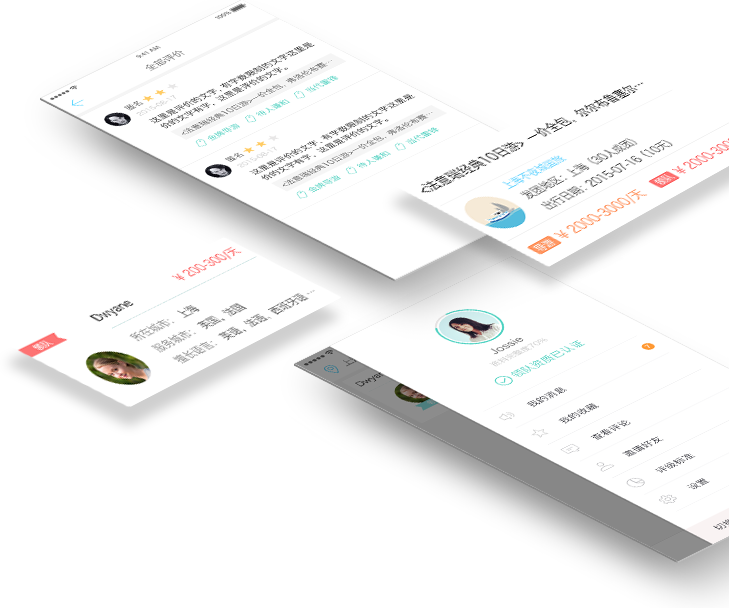
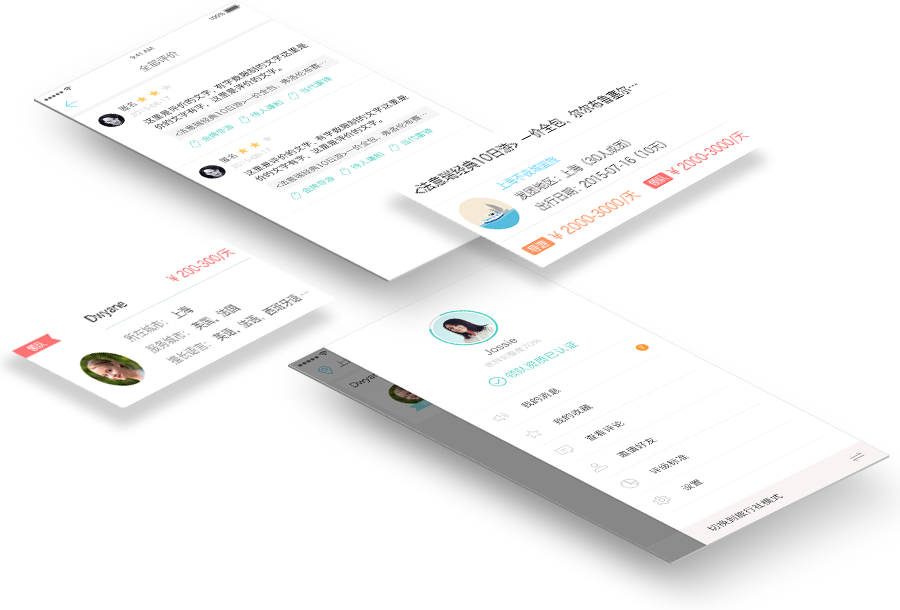
做导游平台后台 APP 功能、帮助及评价说明页面

diff --git a/static/special/source/appTourGuideRate.html b/static/special/source/appTourGuideRate.html
@@ -1,0 +1,79 @@
+<!DOCTYPE html>
+<html lang="zh-cn">
+  <head>
+    <meta charset="utf-8">
+    <meta http-equiv="X-UA-Compatible" content="IE=edge">
+    <meta name="viewport" content="width=device-width, initial-scale=1.0, maximum-scale=1.0, user-scalable=no">
+    <meta name="format-detection" content="telephone=no" />
+    <link rel="stylesheet" type="text/css" href="../css/appSpecial.css">
+    <script src="../../js/jquery.min.js"></script>
+
+    <title>评级标准</title>
+      
+      <!--[if IE]>
+      <script src="../../js/html5.js"></script>
+      <![endif]-->
+      
+  </head>
+  <body style="background-color: #f0f0f0;">
+        <div class="wrapperTourGuide">
+            <div class="bigTitle">
+                <span class="commonIcon rateIcon"></span> 评级说明
+            </div>
+            <div class="contentDetail">
+                <div class="contentTitle">1、评级目的</div>
+                <div class="contentFonts">为了高质量服务于广大用户，鼓励用户积极正确使用该交流平台，建设一个健康有效的交流环境，特此设置评级系统，奖励按照规定使用平台的行为，限制消极使用该平台的行为，体现在等级越高越容易被搜索到和享受更多特权</div>
+            </div>
+            <div class="contentDetail">
+                <div class="contentTitle">2、评级细则</div>
+                <div class="smallTitle">提高等级行为：</div>
+                <ul class="rateList">
+                    <li><span class="commonIcon listIcon"></span>资料完善</li>
+                    <li><span class="commonIcon listIcon"></span>发布档期或团期的行为</li>
+                    <li><span class="commonIcon listIcon"></span>及时反馈报名/邀约用户的行为</li>
+                    <li><span class="commonIcon listIcon"></span>及时点评的行为</li>
+                </ul>
+                <div class="smallTitle">降低等级行为：</div>
+                <ul class="rateList">
+                    <li><span class="commonIcon listIcon"></span>规定时间内没有及时反馈对方</li>
+                    <li><span class="commonIcon listIcon"></span>规定时间内没有及时点评对方</li>
+                    <li><span class="commonIcon listIcon"></span>恶意点评对方的行为</li>
+                    <li><span class="commonIcon listIcon"></span>发布虚假信息</li>
+                </ul>
+            </div>
+            <div class="contentDetail">
+                <div class="contentTitle">3、等级特权</div>
+                <ul class="rateList">
+                    <li><span class="commonIcon listIcon"></span>首页展示</li>
+                    <li><span class="commonIcon listIcon"></span>排名靠前</li>
+                    <li><span class="commonIcon listIcon"></span>精准推送</li>
+                    <li><span class="commonIcon listIcon"></span>使用软件全功能等</li>
+                </ul>
+            </div>
+            <div class="contentDetail">
+                <div class="contentTitle">4、其他说明</div>
+                <div class="contentFonts">本规则最终解释权归真旅网软件开发技术（上海）有限公司所有，如有疑问可联系客服 QQ：123456789</div>
+            </div>
+        </div>
+
+        <script type="text/javascript">
+            var root = document.getElementsByTagName("html")[0],
+                    w = window.innerWidth >= 750 ? 750 : window.innerWidth,
+                    h = window.innerHeight >= 1334 ? 1334 : window.innerHeight,
+                    base_ratio = 750 / 1334,
+                    actual_ratio = window.innerWidth / window.innerHeight;
+
+            if (actual_ratio >= base_ratio) {  // 宽屏，按高度算
+
+                root.style.fontSize = (h / 667) * 20 + "px";
+
+            } else if (actual_ratio < base_ratio) {  //  长屏，按宽度算
+
+                root.style.fontSize = (w / 375) * 20 + "px";
+            }
+
+            root.style.height = window.innerHeight + "px";
+        </script>
+  
+  </body>
+</html>

diff --git a/static/special/source/appTourGuideHelp.html b/static/special/source/appTourGuideHelp.html
@@ -1,0 +1,65 @@
+<!DOCTYPE html>
+<html lang="zh-cn">
+  <head>
+    <meta charset="utf-8">
+    <meta http-equiv="X-UA-Compatible" content="IE=edge">
+    <meta name="viewport" content="width=device-width, initial-scale=1.0, maximum-scale=1.0, user-scalable=no">
+    <meta name="format-detection" content="telephone=no" />
+    <link rel="stylesheet" type="text/css" href="../css/appSpecial.css">
+    <script src="../../js/jquery.min.js"></script>
+
+    <title>帮助</title>
+      
+      <!--[if IE]>
+      <script src="../../js/html5.js"></script>
+      <![endif]-->
+      
+  </head>
+  <body style="background-color: #f0f0f0;">
+        <div class="wrapperTourGuide">
+            <div class="bigTitle">
+                <span class="commonIcon problemIcon"></span> 常见问题
+            </div>
+            <div class="contentDetail">
+                <div class="contentTitle">Q: &nbsp; 团团赢软件是做什么的？</div>
+                <div class="contentFonts">团团赢是真旅网（www.travelzen.com）集团推出的面向导游同胞和旅行之间的一个交流平台，主要是导游找旅行团带团，旅行社找导游去合作。</div>
+            </div>
+            <div class="contentDetail">
+                <div class="contentTitle">Q: &nbsp; 商业合作联系方式</div>
+                <div class="contentFonts">QQ：123456789</div>
+            </div>
+            <div class="contentDetail">
+                <div class="contentTitle">Q: &nbsp; 为什么身份认证需要填写那么多资料？</div>
+                <div class="contentFonts">平台为了安全高效的服务于导游和旅行社，因此采用实名认证和各种证件认证的方式，来维护这个平台的内容健康良好的发展。</div>
+            </div>
+            <div class="contentDetail">
+                <div class="contentTitle">Q: &nbsp; 如何修改密码和忘记密码后该怎么办？</div>
+                <div class="contentFonts">在登录处点击忘记密码，输入手机号、发送验证码、重新输入密码即可。</div>
+            </div>
+            <div class="contentDetail">
+                <div class="contentTitle">Q: &nbsp; 该软件收费吗？</div>
+                <div class="contentFonts">本软件为公益性平台，是向导游群体完全免费开放的平台，不收取任何费用。</div>
+            </div>
+        </div>
+      
+      <script type="text/javascript">
+          var root = document.getElementsByTagName("html")[0],
+                  w = window.innerWidth >= 750 ? 750 : window.innerWidth,
+                  h = window.innerHeight >= 1334 ? 1334 : window.innerHeight,
+                  base_ratio = 750 / 1334,
+                  actual_ratio = window.innerWidth / window.innerHeight;
+
+          if (actual_ratio >= base_ratio) {  // 宽屏，按高度算
+
+              root.style.fontSize = (h / 667) * 20 + "px";
+
+          } else if (actual_ratio < base_ratio) {  //  长屏，按宽度算
+
+              root.style.fontSize = (w / 375) * 20 + "px";
+          }
+
+          root.style.height = window.innerHeight + "px";
+      </script>
+  
+  </body>
+</html>

diff --git a/static/special/css/appSpecial.css b/static/special/css/appSpecial.css
@@ -237,7 +237,8 @@ table{border-collapse:collapse;border-spacing:0;}
 
 
 /*  导游平台后台APP start  */
-.wrapperTourGuide{    
+.wrapperTourGuide{
+    font-size: 0.85rem;
     color: #666666;
 }
 .functionModel{
@@ -252,18 +253,76 @@ table{border-collapse:collapse;border-spacing:0;}
     margin: 1.2rem 0;
 }
 .functionList li{
-    font-size: 0.75rem;
-    margin: 0.3rem 0;
-    line-height: 0.8rem;
+    line-height: 1.4rem;
     list-style-type: none;
 }
 .functionImg{
+    text-align: center;
     margin-left: 0.5rem;
 }
 .functionImg img{
-    width: 18.225rem;
-    height: 15.2rem;
+    height: 15.25rem;
+}
+.pStyle{
+    margin-top: 1rem;
+}
+.pStyle p{
+    padding-bottom: 1.5rem;
+    line-height: 1.4rem;
 }
 
+.bigTitle{
+    font-size: 1rem;
+    padding: 1rem 1rem 0.375rem;
+    margin-bottom: 1.2rem;
+    border-bottom: 1px solid #33ccff;
+}
+.commonIcon.problemIcon{
+    width: 1.1rem;
+    height: 1.1rem;
+    background: url("../images/mobile/appIcon01.png") no-repeat;
+}
+.commonIcon.rateIcon{
+    width: 1.1rem;
+    height: 0.875rem;
+    background: url("../images/mobile/appIcon02.png") no-repeat;
+}
+.wrapperTourGuide .commonIcon{
+    display: inline-block;
+    vertical-align: middle;
+    margin-right: 0.25rem;
+    background-size: cover;
+}
+.commonIcon.listIcon{
+    width: 0.25rem;
+    height: 0.25rem;
+    background: url("../images/mobile/appIcon03.png") no-repeat;
+    margin-right: 0.5rem;
+}
+.contentDetail{
+    margin: 0 1rem;
+}
+.contentDetail .contentTitle{
+    font-size: 0.9rem;
+    margin: 0.75rem 0 0.625rem;
+    padding-bottom: 0.75rem;
+    border-bottom: 1px solid #cccccc;
+    color: #333333;
+}
+.contentFonts{
+    line-height: 1.4rem;
+    padding-bottom: 1rem;
+}
+.smallTitle{
+    margin: 0.5rem 0;
+}
+.rateList{
+    margin-bottom: 1.5rem;
+}
+.rateList li{
+    list-style-type: none;
+    line-height: 1.1rem;
+    margin-bottom: 0.25rem;
+}
 
 /*  导游平台后台APP end  */

diff --git a/static/special/source/appTourGuideFunction.html b/static/special/source/appTourGuideFunction.html
@@ -8,6 +8,11 @@
     <link rel="stylesheet" type="text/css" href="../css/appSpecial.css">
 
     <title>功能介绍</title>
+      
+      <!--[if IE]>
+      <script src="../../js/html5.js"></script>
+      <![endif]-->
+      
   </head>
   <body style="background-color: #f0f0f0;">
         <div class="wrapperTourGuide">
@@ -22,6 +27,14 @@
             </div>
             <div class="functionImg">
                 <img src="../images/mobile/funcitonImg.png">
+            </div>
+            <div class="functionModel">
+                <div class="functionTitle">公司介绍</div>
+                <div class="pStyle">
+                    <p>真旅网Travelzen.com于2007年在香港创立。目前总部设立在上海，员工千余人，在北京 、广州 、成都 、杭州、苏州、香港、美国等地区设有分支机构。</p>
+                    <p>真旅网成为全球领先的国际化旅游产品预订平台服务涵盖机票、酒店，会务、度假、娱乐等全供应链, 提供全球多地出发、多种产品自由组合。</p>
+                    <p>“天地行”一站式综合旅游服务平台和“真旅网”企业差旅平台，满足不同客群的需求。2014年，天地行APP为提供移动人士提供无缝的旅游服务体验。未来，真旅网将部署更大规模的整合，为打造中国最强大的在线旅游产品分销平台不断前行。</p>
+                </div>
             </div>
         </div>
       
